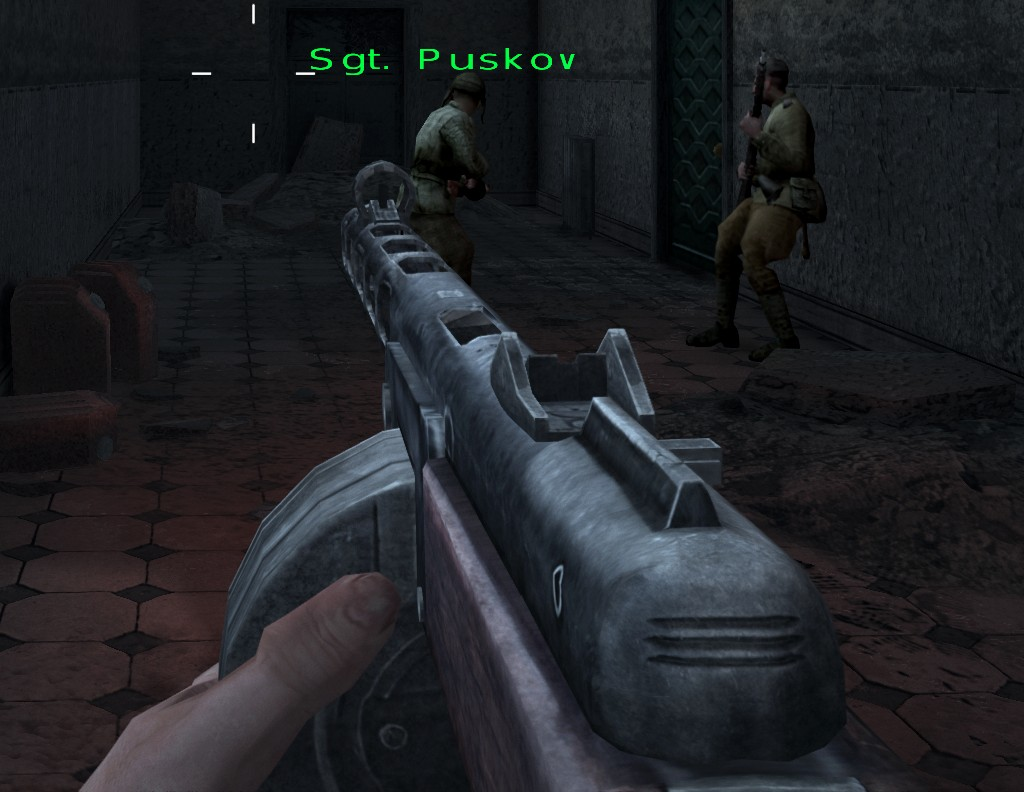
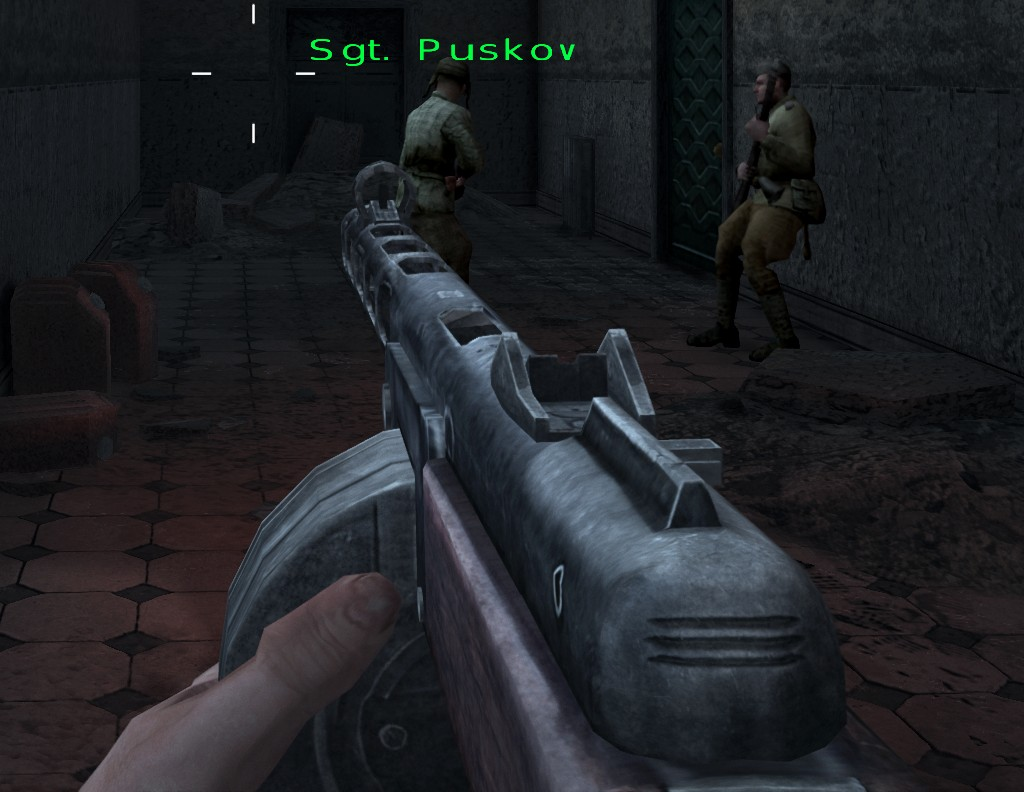
Remastered models: textures exactly as on the originals
Each new vertex takes its texture from the original surface where it lies nearest, so the textures no longer warp
where the shapes curve. README's first-person pictures taken again.

diff --git a/tools/meshes/subdivide.py b/tools/meshes/subdivide.py
@@ -2,10 +2,14 @@
 function pipeline reads from it, whatever its registers hold.
 
 Blender subdivides the shape alone. Each new face remembers the original triangle it came from, and each corner of
-the new mesh takes its registers from that triangle, weighted by where it lies in it (barycentric): texture
-coordinates, colours, anything continuous; bone indices from the nearest corner; bone weights summed by bone over the
-three corners, the 3 strongest kept. The normals are the new shape's own. So UV seams, prelit colours and skinning
-come out as the original had them, for a character, a vehicle or a weapon alike.
+the new mesh takes its registers from the original surface where it lies nearest (barycentric in that triangle):
+texture coordinates, colours, anything continuous; bone indices from the nearest corner; bone weights summed by bone
+over the three corners, the 3 strongest kept. The nearest point is looked for on its own triangle and those about it
+(two rings) of the same UV island (no seam crossed) and facing the same way (not a thin part's other side): the
+rounding moves a corner off its own triangle where the shape curves, and kept on it the texture was squeezed to the
+triangle's edge and smeared along it. So the texture shows on the new shape as it showed on the original. The
+normals are the new shape's own. UV seams, prelit colours and skinning come out as the original had them, for a
+character, a vehicle or a weapon alike.
 
 The original's smoothing tells where it is meant to be round and where hard: an edge whose two faces share their
 normals is smooth and subdivides round; one split in normals (a hard edge) is creased and stays sharp; on hard
@@ -155,6 +159,82 @@ def apply_subdivision(obj, levels):
     bpy.ops.object.modifier_apply(modifier=tri.name)
 
 
+def closest(p, a, b, c):
+    """the point of each triangle (a, b, c) nearest p, as its weights in it: ([n, 3] weights, [n] distances)
+    (Ericson, Real-Time Collision Detection 5.1.5, over arrays)"""
+    ab, ac, ap = b - a, c - a, p - a
+    d1, d2 = (ab * ap).sum(1), (ac * ap).sum(1)
+    bp = p - b
+    d3, d4 = (ab * bp).sum(1), (ac * bp).sum(1)
+    cp = p - c
+    d5, d6 = (ab * cp).sum(1), (ac * cp).sum(1)
+    va, vb, vc = d3 * d6 - d5 * d4, d5 * d2 - d1 * d6, d1 * d4 - d3 * d2
+    n = len(p)
+    w = np.zeros((n, 3))
+    done = np.zeros(n, bool)
+
+    def put(mask, bw):
+        nonlocal done
+        m = mask & ~done
+        w[m] = bw[m] if bw.ndim == 2 else bw
+        done |= m
+
+    eps = 1e-30
+    put((d1 <= 0) & (d2 <= 0), np.array([1.0, 0, 0]))
+    put((d3 >= 0) & (d5 <= d3), np.array([0, 1.0, 0]))
+    t = d1 / np.where(np.abs(d1 - d3) < eps, eps, d1 - d3)
+    put((vc <= 0) & (d1 >= 0) & (d3 <= 0), np.stack([1 - t, t, np.zeros(n)], 1))
+    put((d6 >= 0) & (d4 <= d6), np.array([0, 0, 1.0]))
+    t = d2 / np.where(np.abs(d2 - d6) < eps, eps, d2 - d6)
+    put((vb <= 0) & (d2 >= 0) & (d6 <= 0), np.stack([1 - t, np.zeros(n), t], 1))
+    den = (d4 - d3) + (d5 - d6)
+    t = (d4 - d3) / np.where(np.abs(den) < eps, eps, den)
+    put((va <= 0) & ((d4 - d3) >= 0) & ((d5 - d6) >= 0), np.stack([np.zeros(n), 1 - t, t], 1))
+    den = va + vb + vc
+    den = np.where(np.abs(den) < eps, eps, den)
+    put(np.ones(n, bool), np.stack([va / den, vb / den, vc / den], 1))
+    w = np.clip(w, 0, 1)  # (a triangle with no area: its weights as they come, kept to the triangle)
+    w /= np.maximum(w.sum(1, keepdims=True), 1e-12)
+    q = a * w[:, :1] + b * w[:, 1:2] + c * w[:, 2:]
+    return w, np.linalg.norm(p - q, axis=1)
+
+
+def neighbours(m, rl, rings=2):
+    """each original triangle's own and those about it (sharing an edge, as far as `rings` steps) of its UV island:
+    across the edge both corners alike in every register but the position and normal (the texture coordinates,
+    colours, bones)"""
+    pos, wid = weld(m)
+    vals = [r for r, k in rl.items() if k in ("value", "indices", "weights")]  # (a piece on another bone: another)
+    V = np.concatenate([m.reg(r) for r in vals], 1) if vals else np.zeros((len(wid), 0))
+    tris = m.indices
+    edges = {}
+    for ti, t in enumerate(tris):
+        for k in range(3):
+            u, v = int(t[k]), int(t[(k + 1) % 3])
+            key = (min(wid[u], wid[v]), max(wid[u], wid[v]))
+            if key[0] != key[1]:
+                edges.setdefault(key, []).append((ti, u, v))
+    adj = [set() for _ in range(len(tris))]
+    for (wu, wv), lst in edges.items():
+        for i in range(len(lst)):
+            for j in range(i + 1, len(lst)):
+                (t0, u0, v0), (t1, u1, v1) = lst[i], lst[j]
+                # the same corners of the edge on each side (by welded point)
+                a0, b0 = (u0, v0) if wid[u0] == wu else (v0, u0)
+                a1, b1 = (u1, v1) if wid[u1] == wu else (v1, u1)
+                if np.abs(V[a0] - V[a1]).max(initial=0) < 1e-4 and np.abs(V[b0] - V[b1]).max(initial=0) < 1e-4:
+                    adj[t0].add(t1)
+                    adj[t1].add(t0)
+    out = []
+    for ti in range(len(tris)):
+        seen, ring = {ti}, {ti}
+        for _ in range(rings):
+            ring = {n for r in ring for n in adj[r]} - seen
+            seen |= ring
+        out.append(np.array(sorted(seen)))
+    return out
+
+
 def barycentric(p, a, b, c):
     """p's weights in the triangle (a, b, c), projected on its plane and kept inside it: [n, 3]"""
     v0, v1, v2 = b - a, c - a, p - a
@@ -199,15 +279,43 @@ def export(obj, src):
     poly_src = np.zeros(len(mesh.polygons), np.int32)
     mesh.attributes["src"].data.foreach_get("value", poly_src)
 
-    # each corner of the new triangles: its original triangle and its place in it
-    corners = tri_loops  # loops, 3 a triangle
-    orig_tri = src.indices[poly_src[np.repeat(tri_poly, 3)]]  # [3n, 3] the original's corners (vertex indices)
-    p = co[loop_v[corners]].astype(np.float64)
-    P = src.reg(0)[:, :3].astype(np.float64)
-    bc = barycentric(p, P[orig_tri[:, 0]], P[orig_tri[:, 1]], P[orig_tri[:, 2]])
-
+    # each corner of the new triangles: the original surface where it lies nearest, about the triangle it came from
     regs = src.reg_list()
     rl = roles(src)
+    corners = tri_loops  # loops, 3 a triangle
+    from_tri = poly_src[np.repeat(tri_poly, 3)]  # [3n] the original triangle each corner came from
+    p = co[loop_v[corners]].astype(np.float64)
+    P = src.reg(0)[:, :3].astype(np.float64)
+    T = src.indices.astype(np.int64)
+    tn = np.cross(P[T[:, 1]] - P[T[:, 0]], P[T[:, 2]] - P[T[:, 0]])
+    area = np.linalg.norm(tn, axis=1)
+    flat = area < 1e-10 * float(np.ptp(P, 0).max() or 1.0) ** 2  # no area: no place to take a texture from
+    tn /= np.maximum(area[:, None], 1e-12)
+    around = neighbours(src, rl)
+    cn = loop_n[corners].astype(np.float64)
+    tri_of = from_tri.copy()
+    bc = np.zeros((len(corners), 3))
+    order = np.argsort(from_tri, kind="stable")
+    bounds = np.searchsorted(from_tri[order], np.arange(len(T) + 1))
+    for t in range(len(T)):
+        sel = order[bounds[t]:bounds[t + 1]]
+        if not len(sel):
+            continue
+        q = p[sel]
+        best = np.full(len(sel), np.inf)
+        own = np.sign(cn[sel] @ tn[t])  # (the corner's normal against its own triangle's winding)
+        own = np.where(own == 0, 1.0, own)
+        for c in [t] + [c for c in around[t] if c != t and not flat[c]]:
+            w, d = closest(q, np.repeat(P[T[c, :1]], len(sel), 0), np.repeat(P[T[c, 1:2]], len(sel), 0),
+                           np.repeat(P[T[c, 2:]], len(sel), 0))
+            # (not a face turned away from the corner: a thin part's other side), its own always allowed
+            if c != t:
+                d = np.where((cn[sel] @ tn[c]) * own > 0.2, d, np.inf)
+            better = d < best - 1e-9 if c != t else d < best
+            best = np.where(better, d, best)
+            tri_of[sel[better]] = c
+            bc[sel[better]] = w[better]
+    orig_tri = T[tri_of]  # [3n, 3] the original's corners (vertex indices)
     nregs = len(regs)
     rows = np.zeros((len(corners), nregs, 4), np.float32)
     nearest = orig_tri[np.arange(len(corners)), bc.argmax(1)]

diff --git a/tools/meshes/check_skin_vs.py b/tools/meshes/check_skin_vs.py
@@ -1,0 +1,53 @@
+"""Two sets of remastered skinned meshes checked against each other (check_skin.py's measure, posed by each dump's
+bones): the meshes where the new set lands further from the original than the old one did, worst first.
+
+    python tools/meshes/check_skin_vs.py <old pack meshes> [--new work/remaster/pack/meshes] [--worst 20]
+"""
+import argparse
+import glob
+import os
+import sys
+
+import numpy as np
+
+sys.path.insert(0, os.path.dirname(os.path.abspath(__file__)))
+import fhm  # noqa: E402
+from check_skin import posed  # noqa: E402
+
+
+def far(src, m):
+    a0, b0 = posed(src, src.constants), posed(m, src.constants)
+    size = float(np.linalg.norm(a0.max(0) - a0.min(0))) or 1.0
+    d = np.concatenate([np.linalg.norm(b0[i:i + 2048, None, :] - a0[None, :, :], axis=2).min(1)
+                        for i in range(0, len(b0), 2048)])
+    return float(d.max()) / size
+
+
+def main():
+    ap = argparse.ArgumentParser()
+    root = os.path.dirname(os.path.dirname(os.path.dirname(os.path.abspath(__file__))))
+    ap.add_argument("old")
+    ap.add_argument("--new", default=os.path.join(root, "work", "remaster", "pack", "meshes"))
+    ap.add_argument("--dump", default=os.path.join(root, "work", "meshes", "all"))
+    ap.add_argument("--worst", type=int, default=20)
+    a = ap.parse_args()
+    rows = []
+    for path in glob.glob(os.path.join(a.new, "*.fhm")):
+        key = os.path.basename(path)
+        src_path, old_path = os.path.join(a.dump, key), os.path.join(a.old, key)
+        if not os.path.exists(src_path) or not os.path.exists(old_path):
+            continue
+        src = fhm.read(src_path)
+        if src.constants is None or 1 not in src.reg_list() or 2 not in src.reg_list():
+            continue
+        if np.abs(src.reg(2)[:, :3] - np.round(src.reg(2)[:, :3])).max() > 1e-4:
+            continue
+        rows.append((far(src, fhm.read(path)) - far(src, fhm.read(old_path)), key))
+    rows.sort(reverse=True)
+    for d, key in rows[:a.worst]:
+        print(f"{key}: {d:+.3f} of its size further than before")
+    print(f"{len(rows)} skinned meshes; {sum(1 for d, _ in rows if d > 0.02)} further than before by 0.02 of their size")
+
+
+if __name__ == "__main__":
+    main()

diff --git a/tools/release/UPDATE_NOTES.md b/tools/release/UPDATE_NOTES.md
@@ -81,6 +81,8 @@ The version installed is in `version.txt` beside the game. Unattended:
   ground, every soldier, the tanks and vehicles, the pickups and the level's objects, more than 3,000 in all. Round
   barrels, drums and stocks, soldiers without the old corners, round wheels and turrets, with the game's own
   textures and animations. On by default; PC Settings, Graphics, Remastered Models.
+- Remastered Models: the textures now sit on the new shapes exactly as on the original models (in the first
+  version of this update some were slightly warped where the shapes curve, like the grooves on the PPSh).
 - Crash fixed: Road to Remagen, the small passage around the large building half-way through (it also crashed
   there on the Xbox emulators). When a part of the level was unloaded, things still standing in it kept pointing at
   it, and the game used it again later. That could also crash elsewhere, at any time, after long play.
